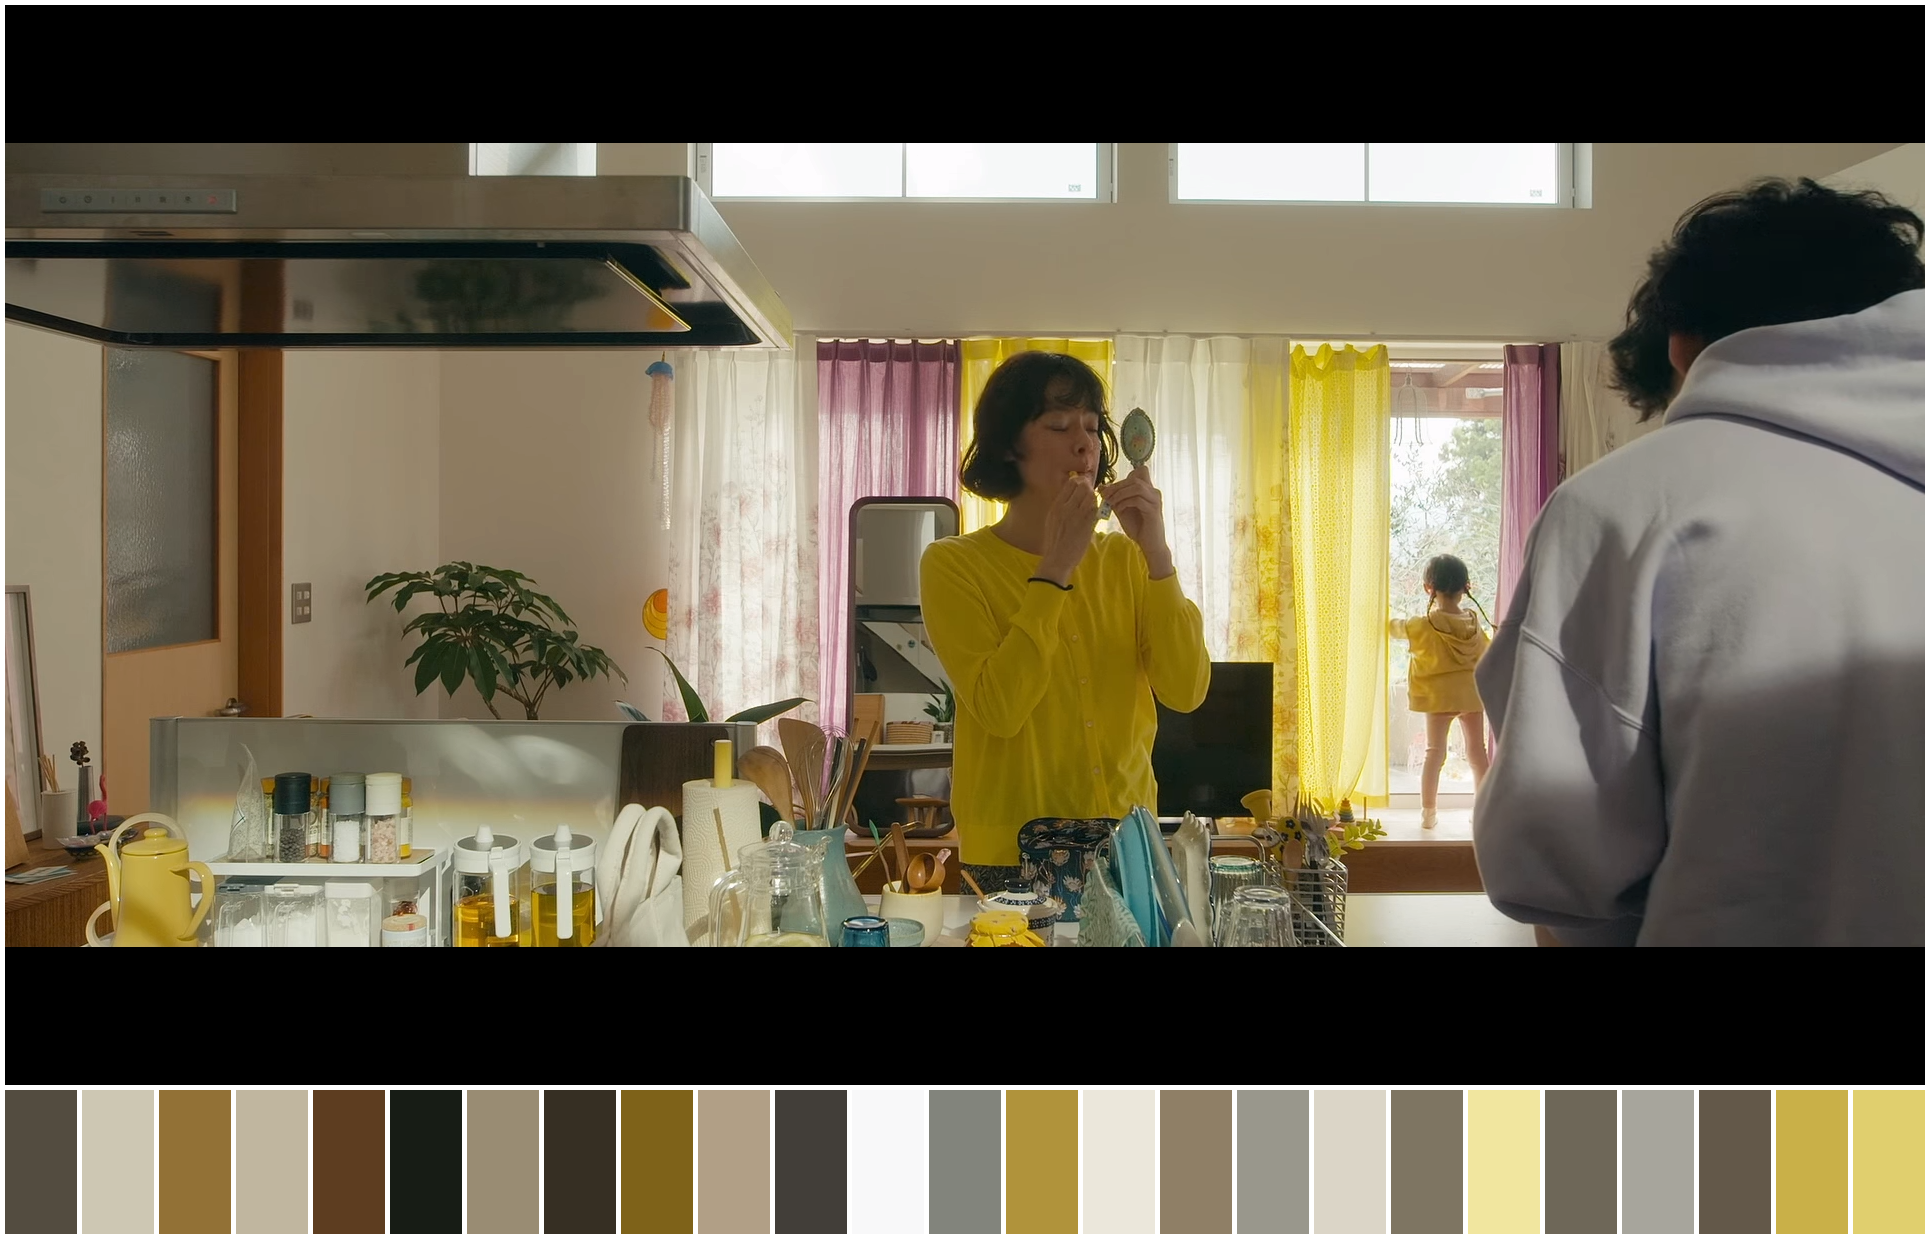
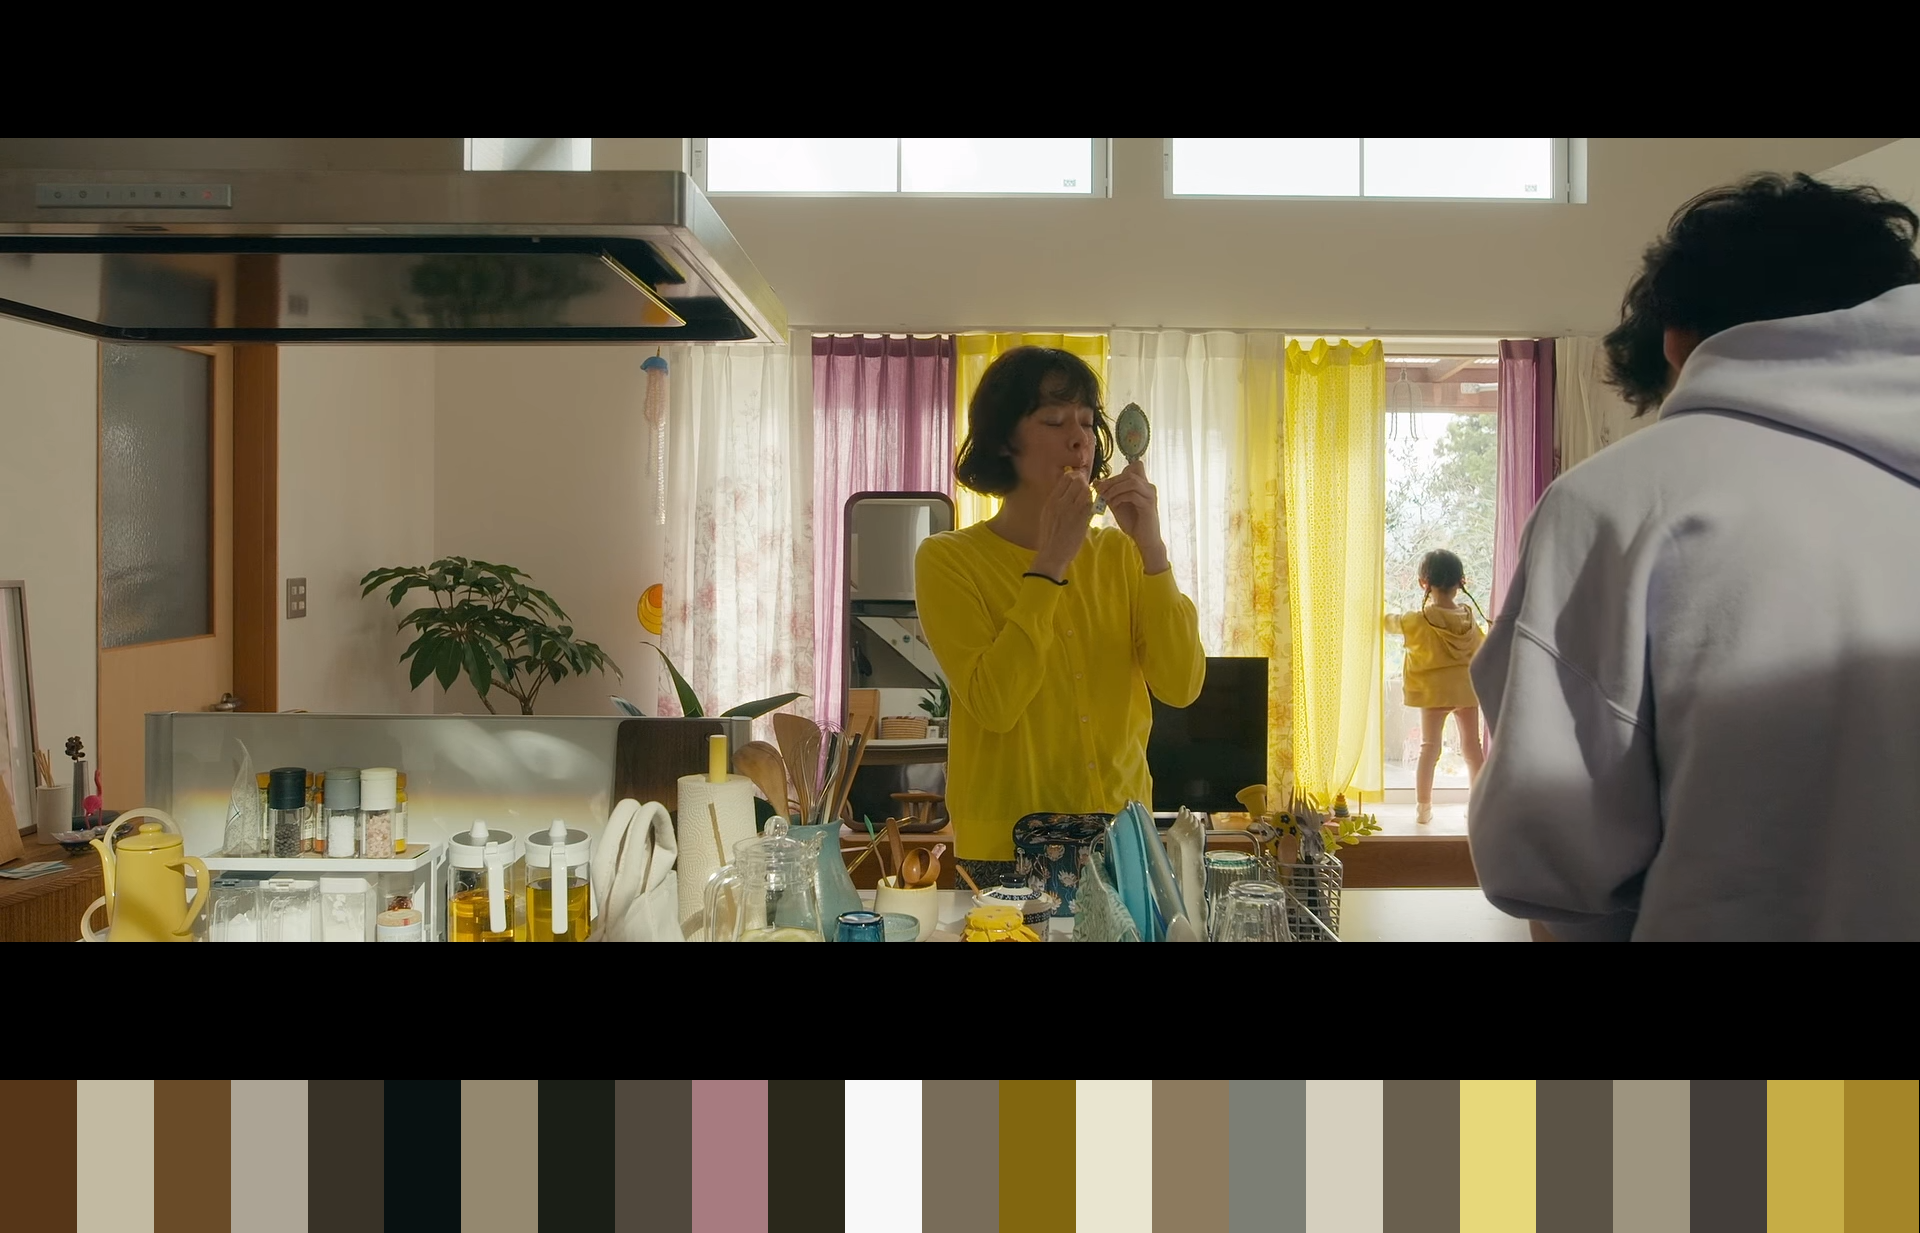
fix swatches spacing and update images

diff --git a/src/main.cpp b/src/main.cpp
@@ -108,11 +108,17 @@ int main(int argc, char** argv) {
 
   for (size_t cluster_idx = 0; cluster_idx < clusters.size(); ++cluster_idx) {
     const int swatch_x = std::ceil(padding + cluster_idx * (swatch_width + padding));
+    const int swatch_x2 =
+        std::min((int)std::ceil(padding + (cluster_idx + 1) * (swatch_width + padding)),
+                 palette_image_width - 1);
+
+    const auto adjusted_width = swatch_x2 - swatch_x;
+
     const int swatch_y = 2 * padding + image.getHeight();
 
     const auto swatch_color = clusters[cluster_idx].convertTo(ColorSpace::sRGB);
 
-    palette_image.drawRectangle(swatch_color, swatch_x, swatch_y, swatch_width, swatch_height);
+    palette_image.drawRectangle(swatch_color, swatch_x, swatch_y, adjusted_width, swatch_height);
     std::cout << swatch_color << std::endl;
   }
 
